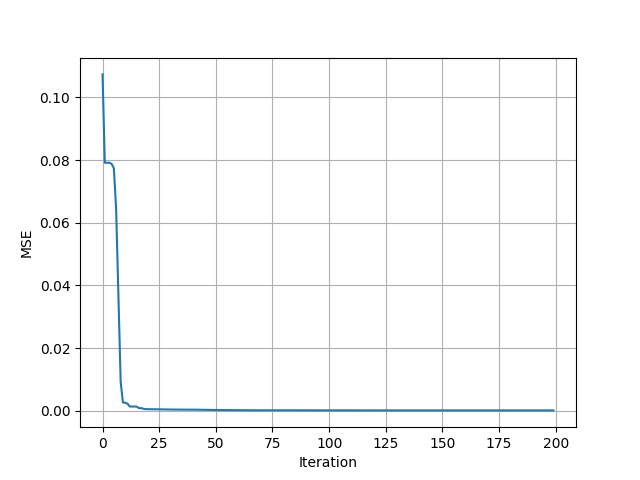
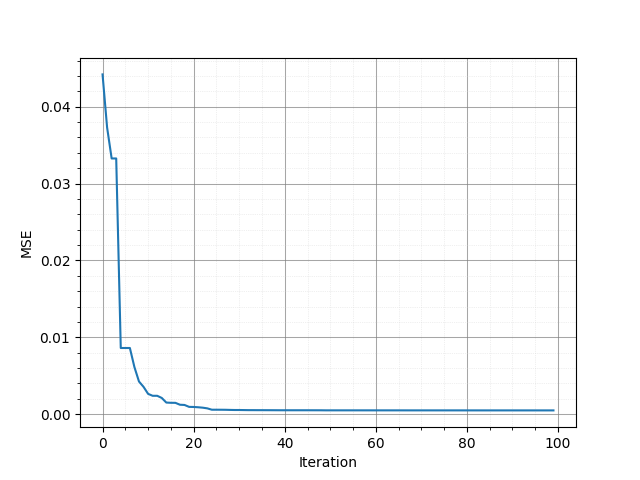
Updating examples and corresponded section in the readme file ...

diff --git a/examples/ex_4.py b/examples/ex_4.py
@@ -112,7 +112,9 @@ print(time() - t)
 
 plt.figure()
 plt.plot(conv)
-plt.grid(True)
+plt.grid(which="major", linestyle="-", linewidth=0.75, color="gray", alpha=0.7)
+plt.minorticks_on() 
+plt.grid(which="minor", linestyle=":", linewidth=0.5, color="lightgray", alpha=0.7)
 plt.xlabel("Iteration")
 plt.ylabel("MSE")
 plt.savefig("convergence.pdf", format="pdf", dpi=300, bbox_inches="tight")
@@ -153,7 +155,9 @@ plt.figure()
 plt.plot(out, linewidth=1.)
 plt.plot(correct, linewidth=1.)
 plt.plot(error, linewidth=1.)
-plt.grid(True)
+plt.grid(which="major", linestyle="-", linewidth=0.75, color="gray", alpha=0.7)
+plt.minorticks_on() 
+plt.grid(which="minor", linestyle=":", linewidth=0.5, color="lightgray", alpha=0.7)
 plt.legend(["Predicted", "Real", "Error"], loc=1)
 plt.xlabel("t")
 plt.ylabel("y(t)")

diff --git a/README.md b/README.md
@@ -131,7 +131,7 @@ So, please update your PyIT2FLS to the latest version.
 
 * [Ex4](https://github.com/Haghrah/PyIT2FLS/blob/master/examples/ex_4.py): Prediction of the Mackey-Glass chaotic time series with PSO-based parameter tuning.
 
-
+<img src="https://raw.githubusercontent.com/Haghrah/PyIT2FLS/master/examples/images/4_2.png" width="200"> <img src="https://raw.githubusercontent.com/Haghrah/PyIT2FLS/master/examples/images/4_4.png" width="200">
 
 * [Ex5](https://github.com/Haghrah/PyIT2FLS/blob/master/examples/ex_5.py): Designing Interval Type 2 Fuzzy PID (IT2FPID) controller for a time-delay linear system.
 
